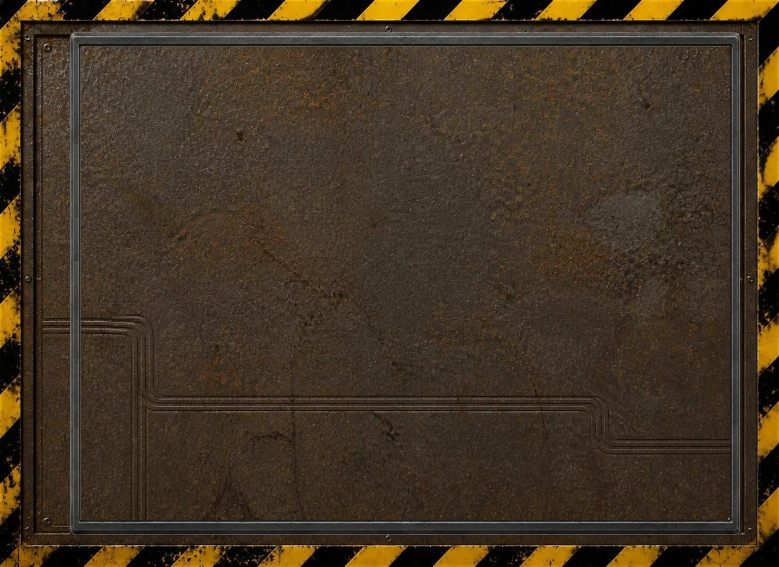
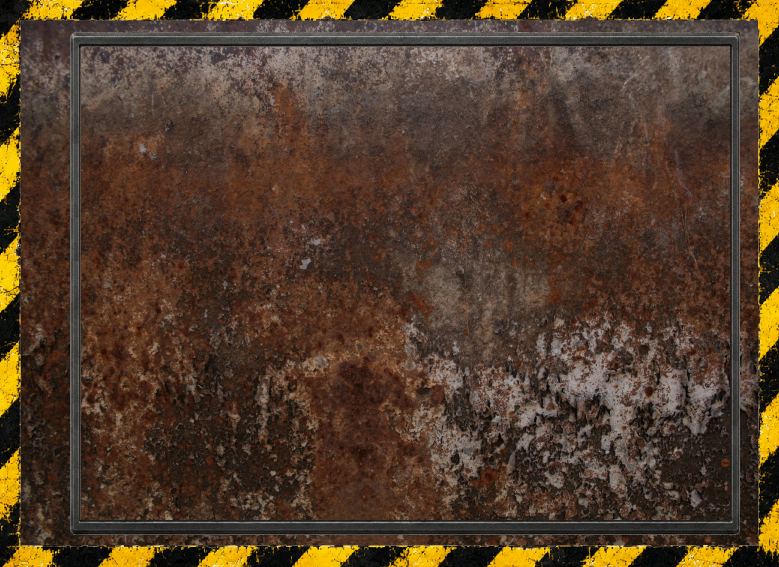
changed background

diff --git a/css/print.css b/css/print.css
@@ -25,13 +25,13 @@
 #printDiv .vehicleCard {
   background-size: contain;
   background-repeat: no-repeat;
-  background-image: url("/img/vehicle-card-background_new.png");
+  background-image: url("/img/vehicle-card-background.png");
 }
 
 #printDiv .vehicleCardContinued {
   background-size: contain;
   background-repeat: no-repeat;
-  background-image: url("/img/vehicle-card-background_new-cont.png");
+  background-image: url("/img/vehicle-card-background-cont.png");
 }
 
 #printDiv .vehicleHeader {
